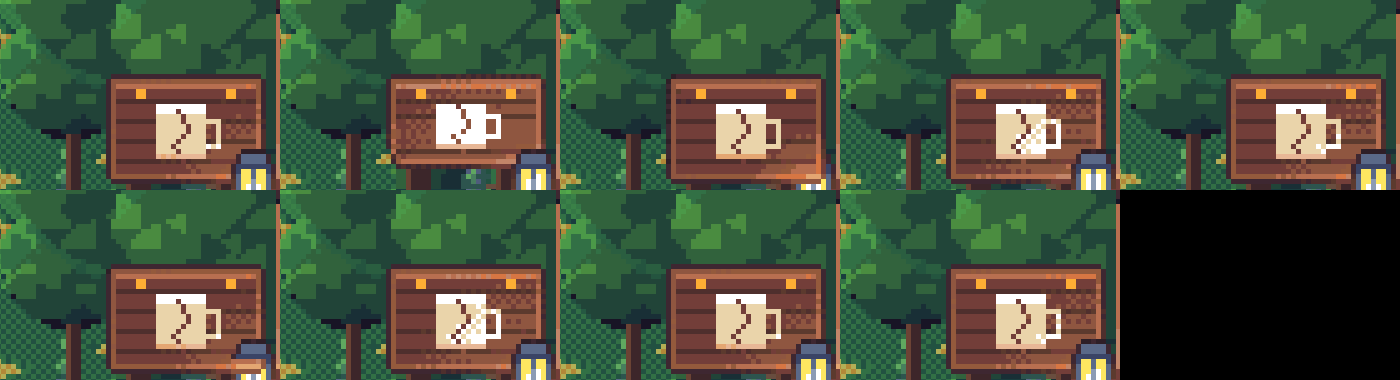
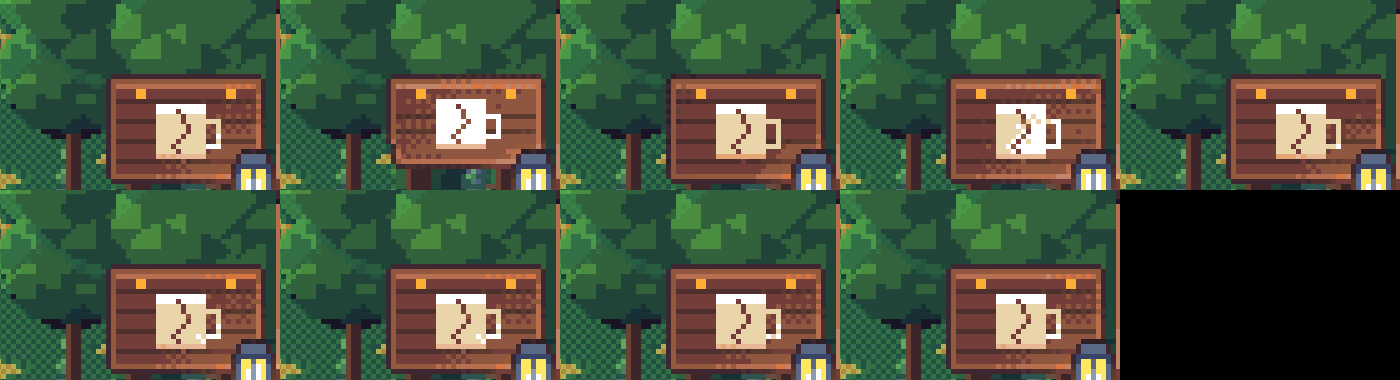
El farol, siempre por delante del rótulo que se balancea
Claude-Session: https://claude.ai/code/session_011Wau2CXHz7Y1As4puBkNta

diff --git a/src/world/rooms/RoomScene.ts b/src/world/rooms/RoomScene.ts
@@ -2267,7 +2267,21 @@ export class RoomScene {
         // En el brazo de hierro, hacia la punta.
         perch(arm, dx - 17, 2, 50, -8, 3);
       }
+      // El farol, siempre por delante del rótulo (al balancearse, la tabla viene hacia delante y
+      // lo atravesaría): se pinta después y sin que lo tape lo que tenga delante.
+      const before = [classic.children.length, mood.children.length];
       put(lantern, dx - 8, 4, 46);
+      for (const [g, n] of [
+        [classic, before[0]!],
+        [mood, before[1]!],
+      ] as const)
+        for (const o of g.children.slice(n))
+          o.traverse((m) => {
+            const mat = (m as Mesh).material as ShaderMaterial | undefined;
+            if (!mat) return;
+            mat.depthTest = false;
+            m.renderOrder = 5;
+          });
       // La fachada: lo que se ve desde el camino.
       const facade = model.facade ?? [];
       if (facade.includes('letrero')) put(Prop.nameBoard(), dx - 26, 3, 74);

diff --git a/docs/plan-arte.md b/docs/plan-arte.md
@@ -137,7 +137,8 @@ npm run build`.
         péndulo con roce que se apaga en unos 3 s (`hangSign`, `swingSign` en `RoomScene.ts`);
         más claro al ir hacia atrás (mira al cielo). Cadenas (`chain`) al tocarlo y crujido en
         cada vuelta fuerte; el cuervo grazna. El de hierro, en dos partes: el brazo fijo y la
-        tabla con las cadenas colgando (`ironSignParts` en `props.ts`).
+        tabla con las cadenas colgando (`ironSignParts` en `props.ts`). El farol, siempre por delante (el
+        usuario: «atraviesa el farol»): se pinta el último y sin prueba de profundidad.
   - [x] 6. La marca de destino (`goalMark.ts`): un banderín con el color de su ropa y el icono
         de lo que va a hacer (arreglar lo que pasa, descansar, guardia o el de la sala), clavado
         en el suelo a un lado de donde va. Al arrastrar, uno tenue de muestra donde caerá; al
